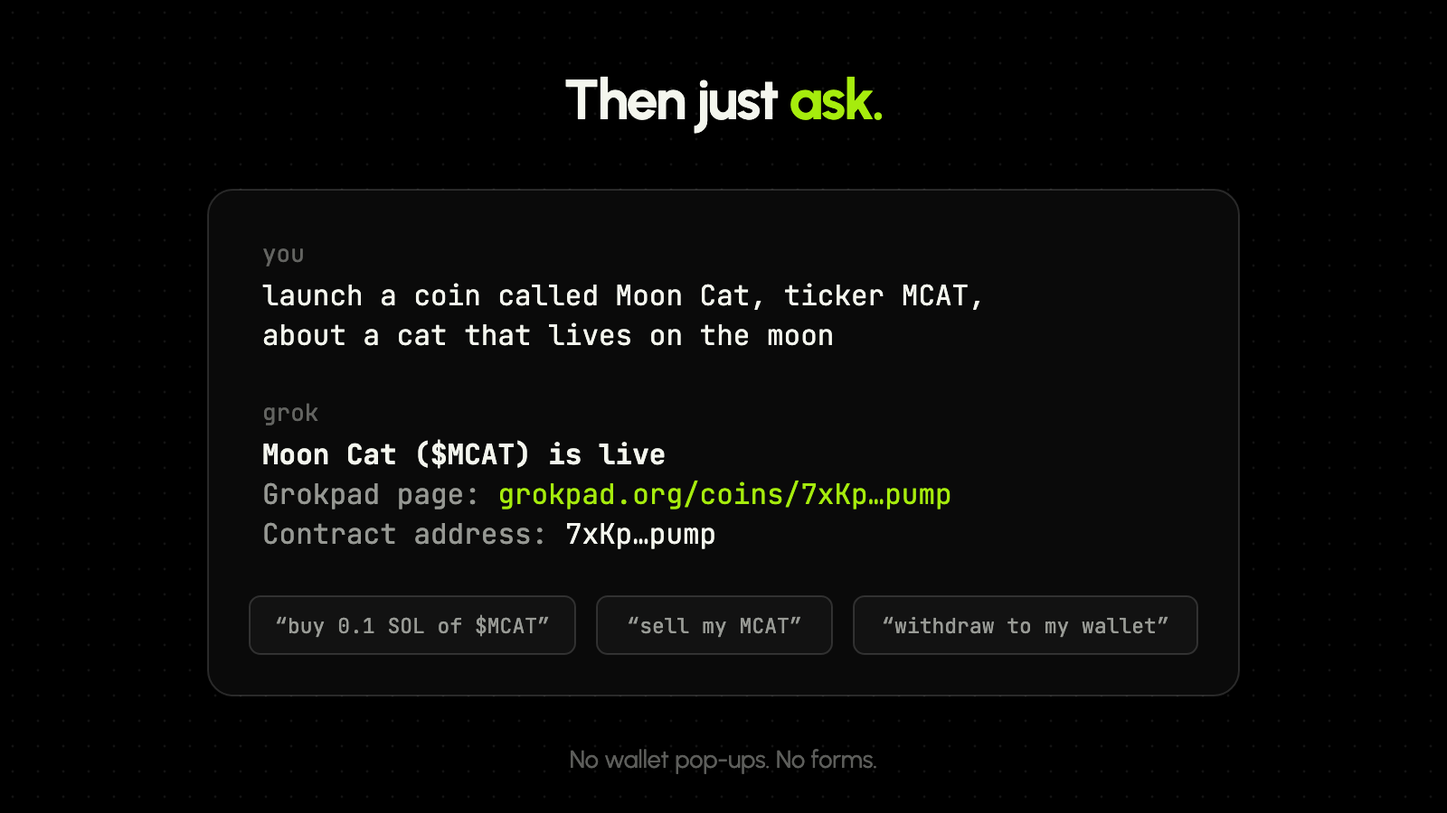
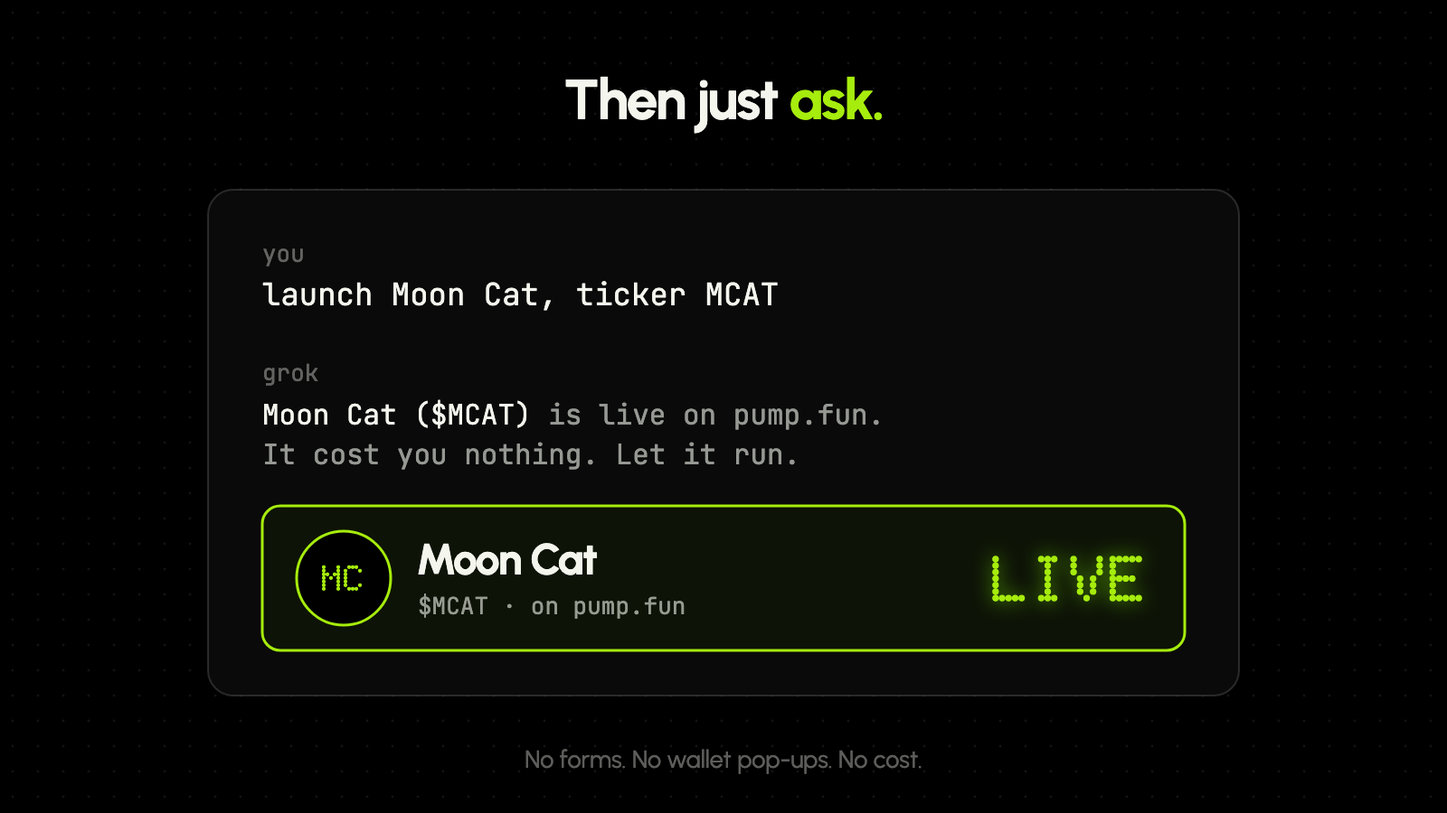
feat: Grokpad article as pure hype, no dev details
The owner wants it to read like a launch pitch: free, one sentence, live. Contract addresses, page links and connector plumbing are out.

Changed region(s): [[0.1562, 0.4978, 0.8438, 0.8089], [0.1875, 0.3422, 0.6562, 0.4667], [0.375, 0.9022, 0.625, 0.9644]]

diff --git a/docs/grokpad/index.html b/docs/grokpad/index.html
@@ -1,7 +1,7 @@
 <!doctype html>
 <html lang="en"><head><meta charset="utf-8"><meta name="viewport" content="width=device-width,initial-scale=1">
 <title>Grokpad — X article kit</title>
-<meta name="description" content="Free coin launches. No sign-up, no deposit. Just ask Grok."><meta property="og:title" content="Launch a coin for free, just by asking Grok"><meta property="og:description" content="Free coin launches. No sign-up, no deposit. Just ask Grok."><meta property="og:image" content="https://moonbagdexter.github.io/article-kits/grokpad/01-cover.png"><meta name="twitter:card" content="summary_large_image"><meta name="twitter:image" content="https://moonbagdexter.github.io/article-kits/grokpad/01-cover.png">
+<meta name="description" content="Free coin launches. One sentence to Grok and it&#x27;s live on pump.fun."><meta property="og:title" content="Launch coins for free. Just ask Grok."><meta property="og:description" content="Free coin launches. One sentence to Grok and it&#x27;s live on pump.fun."><meta property="og:image" content="https://moonbagdexter.github.io/article-kits/grokpad/01-cover.png"><meta name="twitter:card" content="summary_large_image"><meta name="twitter:image" content="https://moonbagdexter.github.io/article-kits/grokpad/01-cover.png">
 <style>
 *{box-sizing:border-box}
 body{margin:0;background:#0b0b0c;color:#E7E9EA;font-family:Inter,"Segoe UI",system-ui,sans-serif;-webkit-font-smoothing:antialiased}
@@ -40,16 +40,14 @@ button.ok{background:#f5b301;color:#111}
 <p>Go top to bottom. Hit <b>Copy</b> on each block, paste it into the X article editor, then move on. The images get <b>Copy image</b> (paste straight in) or <b>Download</b> (upload it).</p>
 <p>Text keeps its bold and bullets when pasted. If a section heading pastes as plain text, highlight it in X and set it to <b>Heading</b>.</p>
 </div>
-<div id="steps"><div class="step"><div class="num">1</div><div class="card"><div class="head"><span class="tag">Title</span><span class="sp"></span><button onclick="copyText(this)">Copy</button></div><div class="body title">Launch a coin for free, just by asking Grok</div></div></div><div class="step"><div class="num">2</div><div class="card"><div class="head"><span class="tag">Cover image</span><span class="sp"></span><a class="btn ghost" download="01-cover.png" href="01-cover.png">Download</a><button onclick="copyImage(this)">Copy image</button></div><img src="01-cover.png" alt=""><div class="hint">Cover image — goes in the cover slot at the very top, not in the body.</div></div></div><div class="step"><div class="num">3</div><div class="card"><div class="head"><span class="tag">Text</span><span class="sp"></span><button onclick="copyText(this)">Copy</button></div><div class="body"><p>You already talk to Grok. Now it can launch your coin.</p>
-<p><b>It’s free. No sign-up, no deposit. Say a name and a ticker, and it’s live on pump.fun.</b></p>
-<h2>Set it up once</h2></div></div></div><div class="step"><div class="num">4</div><div class="card"><div class="head"><span class="tag">Image</span><span class="sp"></span><a class="btn ghost" download="02-setup.png" href="02-setup.png">Download</a><button onclick="copyImage(this)">Copy image</button></div><img src="02-setup.png" alt=""></div></div><div class="step"><div class="num">5</div><div class="card"><div class="head"><span class="tag">Text</span><span class="sp"></span><button onclick="copyText(this)">Copy</button></div><div class="body"><p>Tap one button on Grokpad to get your private connector link. Paste it into Grok’s Connectors. <b>That’s the whole setup.</b></p>
-<p>There’s nothing to fund. Grokpad covers the launch.</p>
-<h2>Then just ask</h2></div></div></div><div class="step"><div class="num">6</div><div class="card"><div class="head"><span class="tag">Image</span><span class="sp"></span><a class="btn ghost" download="03-ask.png" href="03-ask.png">Download</a><button onclick="copyImage(this)">Copy image</button></div><img src="03-ask.png" alt=""></div></div><div class="step"><div class="num">7</div><div class="card"><div class="head"><span class="tag">Text</span><span class="sp"></span><button onclick="copyText(this)">Copy</button></div><div class="body"><p>“Launch a coin called Moon Cat, ticker MCAT, about a cat on the moon.”</p>
-<p>Grok can write the description and picture for you. <b>No wallet pop-ups, no forms.</b></p>
-<h2>Live in seconds</h2></div></div></div><div class="step"><div class="num">8</div><div class="card"><div class="head"><span class="tag">Image</span><span class="sp"></span><a class="btn ghost" download="04-live.png" href="04-live.png">Download</a><button onclick="copyImage(this)">Copy image</button></div><img src="04-live.png" alt=""></div></div><div class="step"><div class="num">9</div><div class="card"><div class="head"><span class="tag">Text</span><span class="sp"></span><button onclick="copyText(this)">Copy</button></div><div class="body"><p>Grok sends back your coin’s Grokpad page and its contract address. <b>That page is also your coin’s website on pump.fun.</b></p>
-<p>Want a bag of your own coin? Add a little SOL to your Grokpad wallet, just what you’ll trade with, and tell Grok to buy.</p></div></div></div><div class="step"><div class="num">10</div><div class="card"><div class="head"><span class="tag">Image</span><span class="sp"></span><a class="btn ghost" download="05-close.png" href="05-close.png">Download</a><button onclick="copyImage(this)">Copy image</button></div><img src="05-close.png" alt=""></div></div><div class="step"><div class="num">11</div><div class="card"><div class="head"><span class="tag">Text</span><span class="sp"></span><button onclick="copyText(this)">Copy</button></div><div class="body"><h2>Say it. It’s live.</h2>
-<p><b>Get your link at grokpad.org</b></p>
-<p>What’s the first coin you’d ask Grok for?</p></div></div></div></div>
+<div id="steps"><div class="step"><div class="num">1</div><div class="card"><div class="head"><span class="tag">Title</span><span class="sp"></span><button onclick="copyText(this)">Copy</button></div><div class="body title">Launch coins for free. Just ask Grok.</div></div></div><div class="step"><div class="num">2</div><div class="card"><div class="head"><span class="tag">Cover image</span><span class="sp"></span><a class="btn ghost" download="01-cover.png" href="01-cover.png">Download</a><button onclick="copyImage(this)">Copy image</button></div><img src="01-cover.png" alt=""><div class="hint">Cover image — goes in the cover slot at the very top, not in the body.</div></div></div><div class="step"><div class="num">3</div><div class="card"><div class="head"><span class="tag">Text</span><span class="sp"></span><button onclick="copyText(this)">Copy</button></div><div class="body"><p>You already talk to Grok all day. Now it launches coins.</p>
+<p><b>Free. No sign-up. No deposit. One sentence and it’s live on pump.fun.</b></p>
+<h2>One tap to plug in</h2></div></div></div><div class="step"><div class="num">4</div><div class="card"><div class="head"><span class="tag">Image</span><span class="sp"></span><a class="btn ghost" download="02-setup.png" href="02-setup.png">Download</a><button onclick="copyImage(this)">Copy image</button></div><img src="02-setup.png" alt=""></div></div><div class="step"><div class="num">5</div><div class="card"><div class="head"><span class="tag">Text</span><span class="sp"></span><button onclick="copyText(this)">Copy</button></div><div class="body"><p>Grab your link on Grokpad and add it to Grok. <b>Done. That’s the whole setup.</b></p>
+<h2>Then just ask</h2></div></div></div><div class="step"><div class="num">6</div><div class="card"><div class="head"><span class="tag">Image</span><span class="sp"></span><a class="btn ghost" download="03-ask.png" href="03-ask.png">Download</a><button onclick="copyImage(this)">Copy image</button></div><img src="03-ask.png" alt=""></div></div><div class="step"><div class="num">7</div><div class="card"><div class="head"><span class="tag">Text</span><span class="sp"></span><button onclick="copyText(this)">Copy</button></div><div class="body"><p>“Launch Moon Cat, ticker MCAT.”</p>
+<p>Grok writes the description, makes the picture and ships it. <b>You don’t fill in a thing or pay a cent.</b></p>
+<h2>Idea to coin in one sentence</h2></div></div></div><div class="step"><div class="num">8</div><div class="card"><div class="head"><span class="tag">Image</span><span class="sp"></span><a class="btn ghost" download="04-sentence.png" href="04-sentence.png">Download</a><button onclick="copyImage(this)">Copy image</button></div><img src="04-sentence.png" alt=""></div></div><div class="step"><div class="num">9</div><div class="card"><div class="head"><span class="tag">Text</span><span class="sp"></span><button onclick="copyText(this)">Copy</button></div><div class="body"><p>See a meme. Say the word. <b>It’s live in seconds.</b></p></div></div></div><div class="step"><div class="num">10</div><div class="card"><div class="head"><span class="tag">Image</span><span class="sp"></span><a class="btn ghost" download="05-close.png" href="05-close.png">Download</a><button onclick="copyImage(this)">Copy image</button></div><img src="05-close.png" alt=""></div></div><div class="step"><div class="num">11</div><div class="card"><div class="head"><span class="tag">Text</span><span class="sp"></span><button onclick="copyText(this)">Copy</button></div><div class="body"><h2>Say it. It’s live.</h2>
+<p><b>grokpad.org</b></p>
+<p>What are you launching first?</p></div></div></div></div>
 </div>
 <div class="toast" id="toast">Copied</div>
 <script>

diff --git a/docs/index.html b/docs/index.html
@@ -16,5 +16,5 @@ p{color:#8b8f94;font-size:14px;line-height:1.5;margin:0 0 20px}
 </style></head><body><div class="wrap">
 <h1>X article kits</h1>
 <p>Open one, then copy each block into the X article editor, top to bottom.</p>
-<a class="kit" href="grokpad/"><img src="grokpad/01-cover.png" alt=""><div class="info"><div class="proj">Grokpad · 2026-10-19</div><div class="t">Launch a coin for free, just by asking Grok</div></div></a><a class="kit" href="candy-or-curse/"><img src="candy-or-curse/01-cover.png" alt=""><div class="info"><div class="proj">Candy or Curse · 2026-10-09</div><div class="t">Knock on a door. Get candy, or get cursed.</div></div></a><a class="kit" href="fee2play/"><img src="fee2play/01-cover.png" alt=""><div class="info"><div class="proj">Fee2Play · 2026-10-09</div><div class="t">Launch a coin. Its fees pay an AI to build its game.</div></div></a><a class="kit" href="treepad/"><img src="treepad/01-cover.png" alt=""><div class="info"><div class="proj">Treepad · 2026-10-08</div><div class="t">Launch a coin that plants real trees</div></div></a><a class="kit" href="mintmark/"><img src="mintmark/01-cover.png" alt=""><div class="info"><div class="proj">Mintmark · 2026-10-05</div><div class="t">Give your coin a voice, and a week of posts to go with it</div></div></a><a class="kit" href="pair-pond/"><img src="pair-pond/01-cover.png" alt=""><div class="info"><div class="proj">Pair Pond · 2026-09-29</div><div class="t">A fishing game where every fish is a real coin</div></div></a><a class="kit" href="nokpad/"><img src="nokpad/01-cover.png" alt=""><div class="info"><div class="proj">NOKPAD · 2026-09-28</div><div class="t">Launch your Nokia pair from a Nokia</div></div></a><a class="kit" href="scanny/"><img src="scanny/01-cover.png" alt=""><div class="info"><div class="proj">Scanny · 2026-09-24</div><div class="t">Scan any barcode. Launch its coin.</div></div></a><a class="kit" href="curv-fund/"><img src="curv-fund/01-cover.png" alt=""><div class="info"><div class="proj">Curv Fund · 2026-09-23</div><div class="t">Borrow against a coin that’s minutes old</div></div></a><a class="kit" href="skinpair/"><img src="skinpair/01-cover.png" alt=""><div class="info"><div class="proj">SkinPair · 2026-09-23</div><div class="t">Every coin buys a real CSGO skin</div></div></a><a class="kit" href="maxpad/"><img src="maxpad/01-cover.png" alt=""><div class="info"><div class="proj">Maxpad · 2026-09-22</div><div class="t">Send your coin’s fees to anyone you pick</div></div></a><a class="kit" href="proof-of-time/"><img src="proof-of-time/01-header.png" alt=""><div class="info"><div class="proj">Proof of Time · 2026-09-21</div><div class="t">The one thing AI can’t fake is the past</div></div></a>
+<a class="kit" href="grokpad/"><img src="grokpad/01-cover.png" alt=""><div class="info"><div class="proj">Grokpad · 2026-10-19</div><div class="t">Launch coins for free. Just ask Grok.</div></div></a><a class="kit" href="candy-or-curse/"><img src="candy-or-curse/01-cover.png" alt=""><div class="info"><div class="proj">Candy or Curse · 2026-10-09</div><div class="t">Knock on a door. Get candy, or get cursed.</div></div></a><a class="kit" href="fee2play/"><img src="fee2play/01-cover.png" alt=""><div class="info"><div class="proj">Fee2Play · 2026-10-09</div><div class="t">Launch a coin. Its fees pay an AI to build its game.</div></div></a><a class="kit" href="treepad/"><img src="treepad/01-cover.png" alt=""><div class="info"><div class="proj">Treepad · 2026-10-08</div><div class="t">Launch a coin that plants real trees</div></div></a><a class="kit" href="mintmark/"><img src="mintmark/01-cover.png" alt=""><div class="info"><div class="proj">Mintmark · 2026-10-05</div><div class="t">Give your coin a voice, and a week of posts to go with it</div></div></a><a class="kit" href="pair-pond/"><img src="pair-pond/01-cover.png" alt=""><div class="info"><div class="proj">Pair Pond · 2026-09-29</div><div class="t">A fishing game where every fish is a real coin</div></div></a><a class="kit" href="nokpad/"><img src="nokpad/01-cover.png" alt=""><div class="info"><div class="proj">NOKPAD · 2026-09-28</div><div class="t">Launch your Nokia pair from a Nokia</div></div></a><a class="kit" href="scanny/"><img src="scanny/01-cover.png" alt=""><div class="info"><div class="proj">Scanny · 2026-09-24</div><div class="t">Scan any barcode. Launch its coin.</div></div></a><a class="kit" href="curv-fund/"><img src="curv-fund/01-cover.png" alt=""><div class="info"><div class="proj">Curv Fund · 2026-09-23</div><div class="t">Borrow against a coin that’s minutes old</div></div></a><a class="kit" href="skinpair/"><img src="skinpair/01-cover.png" alt=""><div class="info"><div class="proj">SkinPair · 2026-09-23</div><div class="t">Every coin buys a real CSGO skin</div></div></a><a class="kit" href="maxpad/"><img src="maxpad/01-cover.png" alt=""><div class="info"><div class="proj">Maxpad · 2026-09-22</div><div class="t">Send your coin’s fees to anyone you pick</div></div></a><a class="kit" href="proof-of-time/"><img src="proof-of-time/01-header.png" alt=""><div class="info"><div class="proj">Proof of Time · 2026-09-21</div><div class="t">The one thing AI can’t fake is the past</div></div></a>
 </div></body></html>

diff --git a/kits/grokpad/art/02-setup.html b/kits/grokpad/art/02-setup.html
@@ -22,4 +22,4 @@ svg{display:block}
 </style></head><body><svg width="1600" height="900" viewBox="0 0 1600 900"><defs>
 <radialGradient id="glow" cx="0.5" cy="0.5" r="0.5"><stop offset="0" stop-color="#5aab04" stop-opacity="0.22"/><stop offset="1" stop-color="#a6ec0d" stop-opacity="0"/></radialGradient>
 <pattern id="dots" width="28" height="28" patternUnits="userSpaceOnUse"><circle cx="14" cy="14" r="1.4" fill="#ffffff" fill-opacity="0.075"/></pattern>
-</defs><rect width="1600" height="900" fill="url(#dots)"/><text class="disp" x="800" y="132" font-size="62" text-anchor="middle">Set it up <tspan class="lime">once.</tspan></text><path class="dash" d="M475 450H625"/><path class="dash" d="M975 450H1125"/><rect x="125" y="300" width="350" height="300" rx="20" class="panel"/><rect x="175" y="410" width="250" height="80" rx="16" fill="#f4f6ee"/><text class="txt" x="300" y="462" font-size="28" font-weight="600" text-anchor="middle" style="fill:#000000">Get my Grok link</text><text class="mono" x="300" y="368" font-size="22" text-anchor="middle" style="fill:rgb(244 246 238 / 0.38)">grokpad</text><text class="mono lime" x="300" y="550" font-size="22" text-anchor="middle">/mcp/••••••••</text><rect x="625" y="300" width="350" height="300" rx="20" class="panel"/><text class="mono" x="665" y="362" font-size="22" style="fill:rgb(244 246 238 / 0.38)">Connectors</text><rect x="665" y="394" width="270" height="64" rx="12" fill="#121212" stroke="rgb(255 255 255 / 0.15)" stroke-width="2"/><text class="mono lime" x="685" y="435" font-size="21">https://…/mcp/•••</text><rect x="665" y="480" width="270" height="64" rx="12" fill="none" stroke="#a6ec0d" stroke-width="3"/><text class="txt" x="800" y="521" font-size="26" font-weight="600" text-anchor="middle">+ Add Connector</text><rect x="1125" y="300" width="350" height="300" rx="20" class="panel-lit"/><text class="mono" x="1300" y="368" font-size="22" text-anchor="middle" style="fill:rgb(244 246 238 / 0.38)">launch cost</text><text class="led lime glow" x="1300" y="480" font-size="84" text-anchor="middle">FREE</text><text class="mono" x="1300" y="548" font-size="22" text-anchor="middle" style="fill:rgb(244 246 238 / 0.6)">nothing to deposit</text><text class="txt" x="300" y="678" font-size="36" font-weight="600" text-anchor="middle">Get your link</text><text class="muted" x="300" y="724" font-size="27" text-anchor="middle">one tap, no sign-up</text><text class="txt" x="800" y="678" font-size="36" font-weight="600" text-anchor="middle">Add it to Grok</text><text class="muted" x="800" y="724" font-size="27" text-anchor="middle">paste it in Connectors</text><text class="txt" x="1300" y="678" font-size="36" font-weight="600" text-anchor="middle">Launch free</text><text class="muted" x="1300" y="724" font-size="27" text-anchor="middle">no deposit, no wallet pop-ups</text></svg></body></html>
+</defs><rect width="1600" height="900" fill="url(#dots)"/><text class="disp" x="800" y="132" font-size="62" text-anchor="middle">One tap. <tspan class="lime">You’re in.</tspan></text><path class="dash" d="M475 450H625"/><path class="dash" d="M975 450H1125"/><rect x="125" y="300" width="350" height="300" rx="20" class="panel"/><rect x="175" y="410" width="250" height="80" rx="16" fill="#f4f6ee"/><text class="txt" x="300" y="462" font-size="28" font-weight="600" text-anchor="middle" style="fill:#000000">Get my Grok link</text><rect x="625" y="300" width="350" height="300" rx="20" class="panel"/><image href="logo.png" x="665.0" y="385.0" width="110" height="110"/><path class="wire" d="M780 440H830"/><text class="disp" x="890" y="456" font-size="46" text-anchor="middle">grok</text><text class="mono lime" x="800" y="548" font-size="22" text-anchor="middle">● connected</text><rect x="1125" y="300" width="350" height="300" rx="20" class="panel-lit"/><text class="led lime glow" x="1300" y="480" font-size="84" text-anchor="middle">FREE</text><text class="txt" x="300" y="678" font-size="36" font-weight="600" text-anchor="middle">Grab your link</text><text class="muted" x="300" y="724" font-size="27" text-anchor="middle">one tap, no sign-up</text><text class="txt" x="800" y="678" font-size="36" font-weight="600" text-anchor="middle">Add it to Grok</text><text class="muted" x="800" y="724" font-size="27" text-anchor="middle">done, that’s the setup</text><text class="txt" x="1300" y="678" font-size="36" font-weight="600" text-anchor="middle">Launch free</text><text class="muted" x="1300" y="724" font-size="27" text-anchor="middle">no deposit, ever</text></svg></body></html>

diff --git a/kits/grokpad/art/03-ask.html b/kits/grokpad/art/03-ask.html
@@ -22,4 +22,4 @@ svg{display:block}
 </style></head><body><svg width="1600" height="900" viewBox="0 0 1600 900"><defs>
 <radialGradient id="glow" cx="0.5" cy="0.5" r="0.5"><stop offset="0" stop-color="#5aab04" stop-opacity="0.22"/><stop offset="1" stop-color="#a6ec0d" stop-opacity="0"/></radialGradient>
 <pattern id="dots" width="28" height="28" patternUnits="userSpaceOnUse"><circle cx="14" cy="14" r="1.4" fill="#ffffff" fill-opacity="0.075"/></pattern>
-</defs><rect width="1600" height="900" fill="url(#dots)"/><text class="disp" x="800" y="132" font-size="62" text-anchor="middle">Then just <tspan class="lime">ask.</tspan></text><rect x="230" y="210" width="1140" height="560" rx="28" class="panel"/><text class="mono" x="290" y="290" font-size="26" style="fill:rgb(244 246 238 / 0.38)">you</text><text class="mono" x="290" y="338" font-size="31">launch a coin called Moon Cat, ticker MCAT,</text><text class="mono" x="290" y="382" font-size="31">about a cat that lives on the moon</text><text class="mono" x="290" y="466" font-size="26" style="fill:rgb(244 246 238 / 0.38)">grok</text><text class="mono" x="290" y="514" font-size="31" font-weight="700">Moon Cat ($MCAT) is live</text><text class="mono" x="290" y="558" font-size="31" style="fill:rgb(244 246 238 / 0.6)">Grokpad page: <tspan class="lime">grokpad.org/coins/7xKp…pump</tspan></text><text class="mono" x="290" y="602" font-size="31" style="fill:rgb(244 246 238 / 0.6)">Contract address: <tspan style="fill:#f4f6ee">7xKp…pump</tspan></text><rect x="276.0" y="660" width="360" height="64" rx="12" fill="#121212" stroke="rgb(255 255 255 / 0.15)" stroke-width="2"/><text class="mono" x="456.0" y="701" font-size="23" text-anchor="middle" style="fill:rgb(244 246 238 / 0.6)">“buy 0.1 SOL of $MCAT”</text><rect x="660.0" y="660" width="260" height="64" rx="12" fill="#121212" stroke="rgb(255 255 255 / 0.15)" stroke-width="2"/><text class="mono" x="790.0" y="701" font-size="23" text-anchor="middle" style="fill:rgb(244 246 238 / 0.6)">“sell my MCAT”</text><rect x="944.0" y="660" width="380" height="64" rx="12" fill="#121212" stroke="rgb(255 255 255 / 0.15)" stroke-width="2"/><text class="mono" x="1134.0" y="701" font-size="23" text-anchor="middle" style="fill:rgb(244 246 238 / 0.6)">“withdraw to my wallet”</text><text class="dim" x="800" y="850" font-size="27" text-anchor="middle">No wallet pop-ups. No forms.</text></svg></body></html>
+</defs><rect width="1600" height="900" fill="url(#dots)"/><text class="disp" x="800" y="132" font-size="62" text-anchor="middle">Then just <tspan class="lime">ask.</tspan></text><rect x="230" y="210" width="1140" height="560" rx="28" class="panel"/><text class="mono" x="290" y="290" font-size="26" style="fill:rgb(244 246 238 / 0.38)">you</text><text class="mono" x="290" y="338" font-size="34">launch Moon Cat, ticker MCAT</text><text class="mono" x="290" y="422" font-size="26" style="fill:rgb(244 246 238 / 0.38)">grok</text><text class="mono" x="290" y="470" font-size="31" style="fill:rgb(244 246 238 / 0.6)"><tspan style="fill:#f4f6ee">Moon Cat ($MCAT)</tspan> is live on pump.fun.</text><text class="mono" x="290" y="514" font-size="31" style="fill:rgb(244 246 238 / 0.6)">It cost you nothing. Let it run.</text><rect x="290" y="560" width="1020" height="160" rx="20" class="panel-lit"/><circle cx="380" cy="640.0" r="52" fill="#000" stroke="#a6ec0d" stroke-width="3"/><text class="led lime" x="380" y="654.0" font-size="40" text-anchor="middle">MC</text><text class="disp" x="460" y="636.0" font-size="48">Moon Cat</text><text class="mono" x="462" y="680.0" font-size="26" style="fill:rgb(244 246 238 / 0.6)">$MCAT · on pump.fun</text><text class="led lime glow" x="1270" y="666.0" font-size="72" text-anchor="end">LIVE</text><text class="dim" x="800" y="850" font-size="27" text-anchor="middle">No forms. No wallet pop-ups. No cost.</text></svg></body></html>

diff --git a/kits/grokpad/art/04-sentence.html b/kits/grokpad/art/04-sentence.html
@@ -1,0 +1,25 @@
+<!doctype html><html><head><meta charset="utf-8">
+<link rel="preconnect" href="https://fonts.googleapis.com"><link rel="preconnect" href="https://fonts.gstatic.com" crossorigin>
+<link href="https://fonts.googleapis.com/css2?family=Urbanist:wght@400;500;600;700&family=Doto:ROND,wght@0..100,100..900&family=JetBrains+Mono:wght@400;500;700&display=block" rel="stylesheet">
+<style>
+html,body{margin:0;padding:0;background:#000000;overflow:hidden}
+svg{display:block}
+.disp{font-family:Urbanist;font-weight:700;fill:#f4f6ee;letter-spacing:-0.03em}
+.txt{font-family:Urbanist;fill:#f4f6ee}
+.muted{font-family:Urbanist;fill:rgb(244 246 238 / 0.6)}
+.dim{font-family:Urbanist;fill:rgb(244 246 238 / 0.38)}
+.mono{font-family:'JetBrains Mono';fill:#f4f6ee}
+.lime{fill:#a6ec0d}
+.led{fill:#f4f6ee;font-family:Doto;font-variation-settings:'ROND' 100;font-weight:900}
+.led.lime{fill:#a6ec0d}
+.pct{font-family:Urbanist;font-weight:700;font-variation-settings:normal}
+.glow{filter:drop-shadow(0 0 10px #5aab04)}
+.panel{fill:#0a0a0a;stroke:rgb(255 255 255 / 0.15);stroke-width:2}
+.panel-lit{fill:#0d1306;stroke:#a6ec0d;stroke-width:3}
+.wire{fill:none;stroke:#a6ec0d;stroke-width:5;stroke-linecap:round}
+.wire-dim{fill:none;stroke:rgb(255 255 255 / 0.22);stroke-width:4;stroke-linecap:round}
+.dash{fill:none;stroke:#a6ec0d;stroke-width:5;stroke-dasharray:2 16;stroke-linecap:round}
+</style></head><body><svg width="1600" height="900" viewBox="0 0 1600 900"><defs>
+<radialGradient id="glow" cx="0.5" cy="0.5" r="0.5"><stop offset="0" stop-color="#5aab04" stop-opacity="0.22"/><stop offset="1" stop-color="#a6ec0d" stop-opacity="0"/></radialGradient>
+<pattern id="dots" width="28" height="28" patternUnits="userSpaceOnUse"><circle cx="14" cy="14" r="1.4" fill="#ffffff" fill-opacity="0.075"/></pattern>
+</defs><rect width="1600" height="900" fill="url(#dots)"/><text class="disp" x="800" y="132" font-size="62" text-anchor="middle">Idea to coin in <tspan class="lime">one sentence.</tspan></text><rect x="150.0" y="250" width="400" height="400" rx="24" class="panel-lit"/><text class="led lime glow" x="350.0" y="500" font-size="230" text-anchor="middle">1</text><text class="txt" x="350.0" y="590" font-size="34" font-weight="600" text-anchor="middle">sentence to Grok</text><rect x="600.0" y="250" width="400" height="400" rx="24" class="panel-lit"/><text class="led lime glow" x="800.0" y="500" font-size="230" text-anchor="middle">0</text><text class="txt" x="800.0" y="590" font-size="34" font-weight="600" text-anchor="middle">SOL to launch</text><rect x="1050.0" y="250" width="400" height="400" rx="24" class="panel"/><text class="led" x="1250.0" y="500" font-size="230" text-anchor="middle">0</text><text class="txt" x="1250.0" y="590" font-size="34" font-weight="600" text-anchor="middle">sign-ups</text><text class="dim" x="800" y="770" font-size="30" text-anchor="middle">See a meme. Say the word. <tspan style="fill:#f4f6ee">It’s live in seconds.</tspan></text></svg></body></html>

diff --git a/kits/grokpad/art/gen.py b/kits/grokpad/art/gen.py
@@ -62,31 +62,26 @@ b = [lockup(1000, 350, 340)]
 b.append('<text class="muted" x="1000" y="640" font-size="52" text-anchor="middle" font-weight="500">Free coin launches. <tspan class="lime">Just ask Grok.</tspan></text>')
 page('01-cover.html', 2000, 800, b)
 
-# ---------------------------------------------------------------- 2 set it up 1600x900
-b = ['<text class="disp" x="800" y="132" font-size="62" text-anchor="middle">Set it up <tspan class="lime">once.</tspan></text>']
+# ---------------------------------------------------------------- 2 plug in 1600x900
+b = ['<text class="disp" x="800" y="132" font-size="62" text-anchor="middle">One tap. <tspan class="lime">You’re in.</tspan></text>']
 xs = [300, 800, 1300]
 cy = 450
 for a, c in zip(xs, xs[1:]):
     b.append(f'<path class="dash" d="M{a + 175} {cy}H{c - 175}"/>')
-# 1: the link
+# 1: the button
 b.append(panel(xs[0] - 175, cy - 150, 350, 300))
 b.append(f'<rect x="{xs[0] - 125}" y="{cy - 40}" width="250" height="80" rx="16" fill="#f4f6ee"/>')
 b.append(f'<text class="txt" x="{xs[0]}" y="{cy + 12}" font-size="28" font-weight="600" text-anchor="middle" style="fill:#000000">Get my Grok link</text>')
-b.append(f'<text class="mono" x="{xs[0]}" y="{cy - 82}" font-size="22" text-anchor="middle" style="fill:rgb(244 246 238 / 0.38)">grokpad</text>')
-b.append(f'<text class="mono lime" x="{xs[0]}" y="{cy + 100}" font-size="22" text-anchor="middle">/mcp/••••••••</text>')
-# 2: Grok connectors
+# 2: grokpad plugged into grok
 b.append(panel(xs[1] - 175, cy - 150, 350, 300))
-b.append(f'<text class="mono" x="{xs[1] - 135}" y="{cy - 88}" font-size="22" style="fill:rgb(244 246 238 / 0.38)">Connectors</text>')
-b.append(f'<rect x="{xs[1] - 135}" y="{cy - 56}" width="270" height="64" rx="12" fill="#121212" stroke="rgb(255 255 255 / 0.15)" stroke-width="2"/>')
-b.append(f'<text class="mono lime" x="{xs[1] - 115}" y="{cy - 15}" font-size="21">https://…/mcp/•••</text>')
-b.append(f'<rect x="{xs[1] - 135}" y="{cy + 30}" width="270" height="64" rx="12" fill="none" stroke="{LIME}" stroke-width="3"/>')
-b.append(f'<text class="txt" x="{xs[1]}" y="{cy + 71}" font-size="26" font-weight="600" text-anchor="middle">+ Add Connector</text>')
-# 3: launch free
+b.append(mark(xs[1] - 80, cy - 10, 110, glow=False))
+b.append(f'<path class="wire" d="M{xs[1] - 20} {cy - 10}H{xs[1] + 30}"/>')
+b.append(f'<text class="disp" x="{xs[1] + 90}" y="{cy + 6}" font-size="46" text-anchor="middle">grok</text>')
+b.append(f'<text class="mono lime" x="{xs[1]}" y="{cy + 98}" font-size="22" text-anchor="middle">● connected</text>')
+# 3: free
 b.append(panel(xs[2] - 175, cy - 150, 350, 300, lit=True))
-b.append(f'<text class="mono" x="{xs[2]}" y="{cy - 82}" font-size="22" text-anchor="middle" style="fill:rgb(244 246 238 / 0.38)">launch cost</text>')
 b.append(f'<text class="led lime glow" x="{xs[2]}" y="{cy + 30}" font-size="84" text-anchor="middle">FREE</text>')
-b.append(f'<text class="mono" x="{xs[2]}" y="{cy + 98}" font-size="22" text-anchor="middle" style="fill:rgb(244 246 238 / 0.6)">nothing to deposit</text>')
-steps = [('Get your link', 'one tap, no sign-up'), ('Add it to Grok', 'paste it in Connectors'), ('Launch free', 'no deposit, no wallet pop-ups')]
+steps = [('Grab your link', 'one tap, no sign-up'), ('Add it to Grok', 'done, that’s the setup'), ('Launch free', 'no deposit, ever')]
 for x, (a, c) in zip(xs, steps):
     b.append(f'<text class="txt" x="{x}" y="{cy + 228}" font-size="36" font-weight="600" text-anchor="middle">{a}</text>')
     b.append(f'<text class="muted" x="{x}" y="{cy + 274}" font-size="27" text-anchor="middle">{c}</text>')
@@ -98,57 +93,36 @@ px, py, pw, ph = 230, 210, 1140, 560
 b.append(panel(px, py, pw, ph, 28))
 lx = px + 60
 b.append(f'<text class="mono" x="{lx}" y="{py + 80}" font-size="26" style="fill:rgb(244 246 238 / 0.38)">you</text>')
-b.append(f'<text class="mono" x="{lx}" y="{py + 128}" font-size="31">launch a coin called Moon Cat, ticker MCAT,</text>')
-b.append(f'<text class="mono" x="{lx}" y="{py + 172}" font-size="31">about a cat that lives on the moon</text>')
-b.append(f'<text class="mono" x="{lx}" y="{py + 256}" font-size="26" style="fill:rgb(244 246 238 / 0.38)">grok</text>')
-b.append(f'<text class="mono" x="{lx}" y="{py + 304}" font-size="31" font-weight="700">Moon Cat ($MCAT) is live</text>')
-b.append(f'<text class="mono" x="{lx}" y="{py + 348}" font-size="31" style="fill:rgb(244 246 238 / 0.6)">Grokpad page: <tspan class="lime">grokpad.org/coins/7xKp…pump</tspan></text>')
-b.append(f'<text class="mono" x="{lx}" y="{py + 392}" font-size="31" style="fill:rgb(244 246 238 / 0.6)">Contract address: <tspan style="fill:#f4f6ee">7xKp…pump</tspan></text>')
-chips = ['“buy 0.1 SOL of $MCAT”', '“sell my MCAT”', '“withdraw to my wallet”']
-cw = [360, 260, 380]
-gap = 24
-x = px + (pw - (sum(cw) + gap * 2)) / 2
-for c, w in zip(chips, cw):
-    b.append(f'<rect x="{x}" y="{py + 450}" width="{w}" height="64" rx="12" fill="#121212" stroke="rgb(255 255 255 / 0.15)" stroke-width="2"/>')
-    b.append(f'<text class="mono" x="{x + w / 2}" y="{py + 491}" font-size="23" text-anchor="middle" style="fill:rgb(244 246 238 / 0.6)">{c}</text>')
-    x += w + gap
-b.append('<text class="dim" x="800" y="850" font-size="27" text-anchor="middle">No wallet pop-ups. No forms.</text>')
+b.append(f'<text class="mono" x="{lx}" y="{py + 128}" font-size="34">launch Moon Cat, ticker MCAT</text>')
+b.append(f'<text class="mono" x="{lx}" y="{py + 212}" font-size="26" style="fill:rgb(244 246 238 / 0.38)">grok</text>')
+b.append(f'<text class="mono" x="{lx}" y="{py + 260}" font-size="31" style="fill:rgb(244 246 238 / 0.6)"><tspan style="fill:#f4f6ee">Moon Cat ($MCAT)</tspan> is live on pump.fun.</text>')
+b.append(f'<text class="mono" x="{lx}" y="{py + 304}" font-size="31" style="fill:rgb(244 246 238 / 0.6)">It cost you nothing. Let it run.</text>')
+# coin card
+cx0, cy0, cw0, ch0 = lx, py + 350, pw - 120, 160
+b.append(panel(cx0, cy0, cw0, ch0, 20, lit=True))
+ax, ay = cx0 + 90, cy0 + ch0 / 2
+b.append(f'<circle cx="{ax}" cy="{ay}" r="52" fill="#000" stroke="{LIME}" stroke-width="3"/>')
+b.append(f'<text class="led lime" x="{ax}" y="{ay + 14}" font-size="40" text-anchor="middle">MC</text>')
+b.append(f'<text class="disp" x="{ax + 80}" y="{ay - 4}" font-size="48">Moon Cat</text>')
+b.append(f'<text class="mono" x="{ax + 82}" y="{ay + 40}" font-size="26" style="fill:rgb(244 246 238 / 0.6)">$MCAT · on pump.fun</text>')
+b.append(f'<text class="led lime glow" x="{cx0 + cw0 - 40}" y="{ay + 26}" font-size="72" text-anchor="end">LIVE</text>')
+b.append('<text class="dim" x="800" y="850" font-size="27" text-anchor="middle">No forms. No wallet pop-ups. No cost.</text>')
 page('03-ask.html', 1600, 900, b)
 
-# ---------------------------------------------------------------- 4 live, with its own page 1600x900
-b = ['<text class="disp" x="800" y="132" font-size="62" text-anchor="middle">Live in seconds. <tspan class="lime">With its own page.</tspan></text>']
-px, py, pw, ph = 200, 215, 1200, 520
-b.append(panel(px, py, pw, ph, 28))
-# address bar
-b.append(f'<rect x="{px + 30}" y="{py + 28}" width="{pw - 60}" height="62" rx="12" fill="#121212" stroke="rgb(255 255 255 / 0.15)" stroke-width="2"/>')
-b.append(f'<circle cx="{px + 64}" cy="{py + 59}" r="7" fill="{LIME}"/>')
-b.append(f'<text class="mono" x="{px + 90}" y="{py + 68}" font-size="26"><tspan class="lime">grokpad.org</tspan><tspan style="fill:rgb(244 246 238 / 0.6)">/coins/7xKp…pump</tspan></text>')
-# coin header
-ax, ay = px + 120, py + 220
-b.append(f'<circle cx="{ax}" cy="{ay}" r="74" fill="#0d1306" stroke="{LIME}" stroke-width="3"/>')
-b.append(f'<circle cx="{ax}" cy="{ay}" r="120" fill="url(#glow)"/>')
-b.append(f'<text class="led lime" x="{ax}" y="{ay + 18}" font-size="52" text-anchor="middle">MC</text>')
-b.append(f'<text class="disp" x="{ax + 112}" y="{ay - 6}" font-size="58">Moon Cat</text>')
-b.append(f'<text class="mono" x="{ax + 114}" y="{ay + 44}" font-size="28" style="fill:rgb(244 246 238 / 0.6)">$MCAT</text>')
-b.append(f'<rect x="{ax + 250}" y="{ay + 16}" width="246" height="40" rx="6" fill="#0d1306" stroke="{LIME}" stroke-width="2"/>')
-b.append(f'<circle cx="{ax + 274}" cy="{ay + 36}" r="6" fill="{LIME}"/>')
-b.append(f'<text class="mono lime" x="{ax + 290}" y="{ay + 44}" font-size="20" font-weight="700">LIVE ON PUMP.FUN</text>')
-# rows
-rows = [('Contract address', '<tspan class="mono" style="fill:#f4f6ee">7xKp…pump</tspan>'),
-        ('pump.fun website', '<tspan class="mono lime">this page</tspan>')]
-ry = py + 380
-for label, val in rows:
-    b.append(f'<path d="M{px + 46} {ry - 44}H{px + pw - 46}" stroke="rgb(255 255 255 / 0.08)" stroke-width="2"/>')
-    b.append(f'<text class="muted" x="{px + 46}" y="{ry}" font-size="28">{label}</text>')
-    b.append(f'<text x="{px + pw - 46}" y="{ry}" font-size="28" text-anchor="end">{val}</text>')
-    ry += 84
-# launch cost tile on the right of the header
-tx, ty = px + pw - 300, py + 140
-b.append(panel(tx, ty, 254, 160, 16, lit=True))
-b.append(f'<text class="mono" x="{tx + 127}" y="{ty + 46}" font-size="20" text-anchor="middle" style="fill:rgb(244 246 238 / 0.38)">launch cost</text>')
-b.append(f'<text class="led lime glow" x="{tx + 127}" y="{ty + 118}" font-size="64" text-anchor="middle">FREE</text>')
-b.append('<text class="dim" x="800" y="835" font-size="27" text-anchor="middle">Grok sends back the page and the contract address.</text>')
-page('04-live.html', 1600, 900, b)
+# ---------------------------------------------------------------- 4 one sentence 1600x900
+b = ['<text class="disp" x="800" y="132" font-size="62" text-anchor="middle">Idea to coin in <tspan class="lime">one sentence.</tspan></text>']
+tiles = [('1', 'sentence to Grok', True), ('0', 'SOL to launch', True), ('0', 'sign-ups', False)]
+tw, th, gap = 400, 400, 50
+x0 = 800 - (tw * 3 + gap * 2) / 2
+ty = 250
+for i, (n, label, lit) in enumerate(tiles):
+    x = x0 + i * (tw + gap)
+    b.append(panel(x, ty, tw, th, 24, lit=lit))
+    cls = 'led lime glow' if lit else 'led'
+    b.append(f'<text class="{cls}" x="{x + tw / 2}" y="{ty + 250}" font-size="230" text-anchor="middle">{n}</text>')
+    b.append(f'<text class="txt" x="{x + tw / 2}" y="{ty + 340}" font-size="34" font-weight="600" text-anchor="middle">{label}</text>')
+b.append('<text class="dim" x="800" y="770" font-size="30" text-anchor="middle">See a meme. Say the word. <tspan style="fill:#f4f6ee">It’s live in seconds.</tspan></text>')
+page('04-sentence.html', 1600, 900, b)
 
 # ---------------------------------------------------------------- 5 close 1600x900
 b = [lockup(800, 370, 300)]
